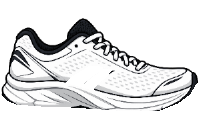
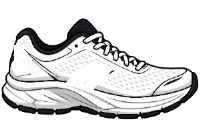
Prépare v1.6.2 : bandes arrière et semelle en deux parties

Changed region(s): [[0.0, 0.6316, 1.0, 0.9023], [0.06, 0.3308, 0.18, 0.5714]]

diff --git a/src/core/shoes/shoe-colors.ts b/src/core/shoes/shoe-colors.ts
@@ -1,12 +1,15 @@
 import type { ShoeColors } from '../../types/shoe';
 
-/** Zones de l'icône dans l'ordre du formulaire ; calques générés par scripts/basket-zones.py. */
-export const SHOE_COLOR_ZONES = ['upper', 'laces', 'midsole', 'stripes', 'outsole'] as const;
+/** Zones de l'icône dans l'ordre du formulaire ; calques générés par scripts/basket-zones.py.
+ * Clés inchangées depuis la v1.6.0 : `midsole` et `outsole` désignent les parties haute et basse de la semelle. */
+export const SHOE_COLOR_ZONES = ['upper', 'laces', 'stripes', 'midsole', 'outsole'] as const;
+/** Ordre de superposition : fonds d'abord, puis les bandes, qui recouvrent la tige. */
+export const SHOE_COLOR_LAYERS = ['upper', 'laces', 'midsole', 'outsole', 'stripes'] as const;
 export const shoeColorLabels: Readonly<Record<keyof ShoeColors, string>> = {
-  upper: 'Tige', laces: 'Lacets', midsole: 'Semelle intermédiaire', stripes: 'Bandes', outsole: 'Semelle extérieure',
+  upper: 'Tige', laces: 'Lacets', stripes: 'Bandes', midsole: 'Semelle, partie haute', outsole: 'Semelle, partie basse',
 };
 /** Couleurs de l'image d'origine : les retrouver revient à ne rien personnaliser. */
-export const DEFAULT_SHOE_COLORS: Readonly<ShoeColors> = { upper: '#ffffff', laces: '#ffffff', midsole: '#ffffff', stripes: '#1b1e25', outsole: '#1b1e25' };
+export const DEFAULT_SHOE_COLORS: Readonly<ShoeColors> = { upper: '#ffffff', laces: '#ffffff', midsole: '#ffffff', stripes: '#1b1e25', outsole: '#ffffff' };
 const HEX = /^#[0-9a-f]{6}$/;
 
 export function isShoeColors(value: unknown): value is ShoeColors {

diff --git a/src/components/ShoeIcon.tsx b/src/components/ShoeIcon.tsx
@@ -1,6 +1,6 @@
 import { useId } from 'react';
 import type { ShoeColors } from '../types/shoe';
-import { SHOE_COLOR_ZONES } from '../core/shoes/shoe-colors';
+import { SHOE_COLOR_LAYERS, SHOE_COLOR_ZONES } from '../core/shoes/shoe-colors';
 
 const WIDTH = 200, HEIGHT = 133;
 const image = (path: string) => `${import.meta.env.BASE_URL}images/${path}`;
@@ -10,10 +10,10 @@ export function ShoeIcon({ colors, className = 'shoe-icon' }: { colors?: ShoeCol
   const prefix = `shoe-${useId().replace(/[^a-zA-Z0-9_-]/g, '')}`;
   if (!colors) return <img className={className} src={image('basket.png')} alt="" />;
   return <svg className={className} viewBox={`0 0 ${WIDTH} ${HEIGHT}`} aria-hidden="true" focusable="false" data-shoe-colors={SHOE_COLOR_ZONES.map(zone => colors[zone]).join(' ')}>
-    <defs>{SHOE_COLOR_ZONES.map(zone => <mask key={zone} id={`${prefix}-${zone}`} maskUnits="userSpaceOnUse" x="0" y="0" width={WIDTH} height={HEIGHT}>
+    <defs>{SHOE_COLOR_LAYERS.map(zone => <mask key={zone} id={`${prefix}-${zone}`} maskUnits="userSpaceOnUse" x="0" y="0" width={WIDTH} height={HEIGHT}>
       <image href={image(`basket-zones/${zone}.png`)} width={WIDTH} height={HEIGHT} />
     </mask>)}</defs>
-    {SHOE_COLOR_ZONES.map(zone => <rect key={zone} width={WIDTH} height={HEIGHT} fill={colors[zone]} mask={`url(#${prefix}-${zone})`} />)}
+    {SHOE_COLOR_LAYERS.map(zone => <rect key={zone} width={WIDTH} height={HEIGHT} fill={colors[zone]} mask={`url(#${prefix}-${zone})`} />)}
     <image href={image('basket-zones/ink.png')} width={WIDTH} height={HEIGHT} />
   </svg>;
 }

diff --git a/e2e/shoe-colors.spec.ts b/e2e/shoe-colors.spec.ts
@@ -14,12 +14,12 @@ test('icône de chaussure personnalisée puis remise aux couleurs d’origine', 
   await expect(details.getByRole('button', { name: 'Couleurs d’origine' })).toBeDisabled();
   await details.getByLabel('Tige', { exact: true }).fill('#2b6cd6');
   await details.getByLabel('Lacets', { exact: true }).fill('#ffd400');
-  await expect(details.locator('svg.shoe-icon')).toHaveAttribute('data-shoe-colors', '#2b6cd6 #ffd400 #ffffff #1b1e25 #1b1e25');
+  await expect(details.locator('svg.shoe-icon')).toHaveAttribute('data-shoe-colors', '#2b6cd6 #ffd400 #1b1e25 #ffffff #ffffff');
   await form.getByRole('button', { name: 'Enregistrer cette paire' }).click();
 
   const pair = page.locator('section').filter({ has: page.getByRole('heading', { name: 'Paire colorée', exact: true }) });
   const icon = pair.locator('svg.shoe-icon');
-  await expect(icon).toHaveAttribute('data-shoe-colors', '#2b6cd6 #ffd400 #ffffff #1b1e25 #1b1e25');
+  await expect(icon).toHaveAttribute('data-shoe-colors', '#2b6cd6 #ffd400 #1b1e25 #ffffff #ffffff');
   expect((await icon.boundingBox())?.width).toBeCloseTo(100, 0);
 
   await page.goto('./#/'); await expect(page.locator('.home-shoe-summary svg.shoe-icon')).toBeVisible();

diff --git a/src/pages/Help.tsx b/src/pages/Help.tsx
@@ -48,7 +48,7 @@ export function Help() {
         <li>La date de sa première utilisation.</li>
         <li>Éventuellement, un kilométrage limite pour recevoir une alerte de remplacement.</li>
       </ul>
-      <p>Sous la date de première utilisation, <em>Personnaliser l'icône</em> vous permet de choisir la couleur de la tige, des lacets, des semelles et des bandes, pour reconnaître chaque paire d'un coup d'œil. Sans personnalisation, l'icône habituelle est conservée.</p>
+      <p>Sous la date de première utilisation, <em>Personnaliser l'icône</em> vous permet de choisir la couleur de la tige, des lacets, des bandes et des deux parties de la semelle, pour reconnaître chaque paire d'un coup d'œil. Sans personnalisation, l'icône habituelle est conservée.</p>
       <p>En associant vos chaussures à vos séances, runKLMrun comptabilise les kilomètres parcourus avec chaque paire.</p>
 
       <h2>Votre Coach</h2>

diff --git a/src/backup/shoe-colors.test.ts b/src/backup/shoe-colors.test.ts
@@ -22,7 +22,7 @@ describe('couleurs de l’icône des chaussures', () => {
   });
   it('n’enregistre rien quand les couleurs reprennent l’image d’origine', () => {
     expect(storedShoeColors(undefined)).toBeUndefined();
-    expect(storedShoeColors({ ...DEFAULT_SHOE_COLORS, stripes: '#1B1E25' })).toBeUndefined();
+    expect(storedShoeColors({ ...DEFAULT_SHOE_COLORS, stripes: '#1B1E25', outsole: '#FFFFFF' })).toBeUndefined();
     expect(storedShoeColors({ ...colors, upper: '#2B6CD6' })).toEqual(colors);
   });
   it('sauvegarde au format 11 seulement si une paire est personnalisée', async () => {

diff --git a/scripts/basket-zones.py b/scripts/basket-zones.py
@@ -3,9 +3,9 @@
 Usage (Pillow requis) : python3 -I scripts/basket-zones.py public/images/basket.png public/images/basket-zones
 
 Produit des masques en niveaux de gris (blanc = zone) et une encre fixe (contours, ombres, col) :
-- fonds : upper (tige), laces (lacets), midsole (semelle intermédiaire) ;
-- surcouches sombres : stripes (bandes), outsole (semelle extérieure) ;
-- ink.png : tout ce qui n'est pas recoloré, superposé en dernier.
+- fonds : upper (tige), laces (lacets), midsole (semelle, partie haute), outsole (semelle, partie basse) ;
+- surcouche sombre : stripes (bandes latérales et arrière) ;
+- ink.png : tout ce qui n'est pas recoloré (contours, crampons, col, ombres), superposé en dernier.
 Recomposés avec les couleurs d'origine, les calques redonnent l'image de départ à l'anticrénelage près.
 """
 import os, sys
@@ -13,7 +13,7 @@ from PIL import Image, ImageDraw, ImageFilter
 
 src = Image.open(sys.argv[1]).convert('RGBA'); W, H = src.size; px = src.load(); out = sys.argv[2]
 L = lambda p: (0.2126 * p[0] + 0.7152 * p[1] + 0.0722 * p[2]) / 255
-INK = (27, 30, 37); LI = L(INK)  # #1b1e25, couleur d'origine des bandes et de la semelle extérieure
+INK = (27, 30, 37); LI = L(INK)  # #1b1e25, couleur d'origine des bandes
 
 def poly_mask(points, grow=0):
   m = Image.new('L', (W, H), 0); ImageDraw.Draw(m).polygon(points, fill=255)
@@ -32,8 +32,10 @@ def components(accept):
       yield comp
 
 LACES = poly_mask([(80,40),(88,34),(98,34),(102,37),(106,42),(111,46),(120,50),(130,54),(141,59),(148,62),(149,68),(143,72),(135,72),(125,67),(114,61),(104,56),(96,51),(88,47),(82,45)], grow=2)
-MID = below([(-2,80),(8,82),(30,85),(55,89),(70,91),(100,92),(125,95),(152,97),(187,93),(202,88)])
-OUT = below([(-2,92),(6,100),(15,104),(40,106),(70,107),(100,109),(130,111),(160,110),(178,103),(190,94),(196,84),(202,78)])
+# Couture tige/semelle, puis ligne qui sépare les deux parties de la semelle.
+SOLE = below([(-2,78),(15,79),(20,80),(40,81),(70,81),(80,83),(85,86),(90,88),(95,89),(100,91),(110,93),(120,95),(130,97),(150,96),(160,94),(170,92),(180,90),(185,88),(190,86),(202,84)])
+LOWER = below([(-2,91),(10,91),(20,90),(40,89),(60,88),(70,90),(80,95),(90,101),(105,101),(125,102),(150,102),(160,100),(170,99),(180,95),(188,92),(202,90)])
+REAR_STRIPES = poly_mask([(14,45),(20,45),(26,52),(30,58),(38,72),(34,75),(14,62)])
 STRIPE_CLIP = poly_mask([(61,88),(80,66),(114,66),(95,90)])
 light = lambda x, y: px[x, y][3] > 0 and L(px[x, y]) > 0.55
 dark = lambda x, y: px[x, y][3] > 128 and L(px[x, y]) < 0.4
@@ -48,6 +50,8 @@ stripes = set()
 for comp in components(dark):
   if len(comp) > 100 and all(50 <= x <= 115 and 64 <= y <= 92 for x, y in comp):
     stripes.update((x + dx, y + dy) for x, y in comp for dx in (-1, 0, 1) for dy in (-1, 0, 1))
+# Bandes arrière : traits sombres du talon, hors contour extérieur.
+stripes.update((x, y) for y in range(H) for x in range(W) if REAR_STRIPES[x, y] and px[x, y][3] > 0 and L(px[x, y]) < 0.88)
 
 layers = {k: Image.new('L', (W, H), 0) for k in ('upper', 'laces', 'midsole', 'stripes', 'outsole')}
 lp = {k: v.load() for k, v in layers.items()}
@@ -57,8 +61,8 @@ for y in range(H):
     r, g, b, a = px[x, y]
     if a == 0: continue
     near_lace = LACES[x, y] and any((x + dx, y + dy) in lace_light for dx in (-1, 0, 1) for dy in (-1, 0, 1))
-    base = 'laces' if (x, y) in lace_light or (near_lace and not light(x, y)) else 'midsole' if MID[x, y] else 'upper'
-    over = 'stripes' if (x, y) in stripes and STRIPE_CLIP[x, y] else 'outsole' if OUT[x, y] else None
+    base = 'laces' if (x, y) in lace_light or (near_lace and not light(x, y)) else 'outsole' if LOWER[x, y] else 'midsole' if SOLE[x, y] else 'upper'
+    over = 'stripes' if (x, y) in stripes and (STRIPE_CLIP[x, y] or REAR_STRIPES[x, y]) else None
     amount = max(0.0, min(1.0, (1 - L((r, g, b))) / (1 - LI)))  # part d'encre : blanc 0, #1b1e25 1
     alpha, cover = a / 255, a / 255 * amount
     # Fond réduit pour que fond + surcouche redonnent l'opacité d'origine sur les bords anticrénelés.

diff --git a/CHANGELOG.md b/CHANGELOG.md
@@ -1,5 +1,10 @@
 # Historique des versions
 
+## v1.6.2 — 2026-11-09 — Réglages de l’icône des chaussures
+
+- Bandes : les traits du talon prennent aussi la couleur choisie ; réglage placé avant la semelle.
+- Semelle divisée en partie haute et partie basse selon la forme du dessin ; le contour et les crampons restent noirs.
+
 ## v1.6.1 — 2026-11-09 — Modification d’une paire
 
 - Le formulaire « Modifier cette paire » s’ouvre à la place de la paire concernée, et non plus en haut de la liste, hors de l’écran.

diff --git a/README.md b/README.md
@@ -1,4 +1,4 @@
-# runKLMrun — v1.6.1
+# runKLMrun — v1.6.2
 
 Application web gratuite et open source de suivi
 et de planification des entraînements de course à pied. Interface en français, responsive, sans compte,
